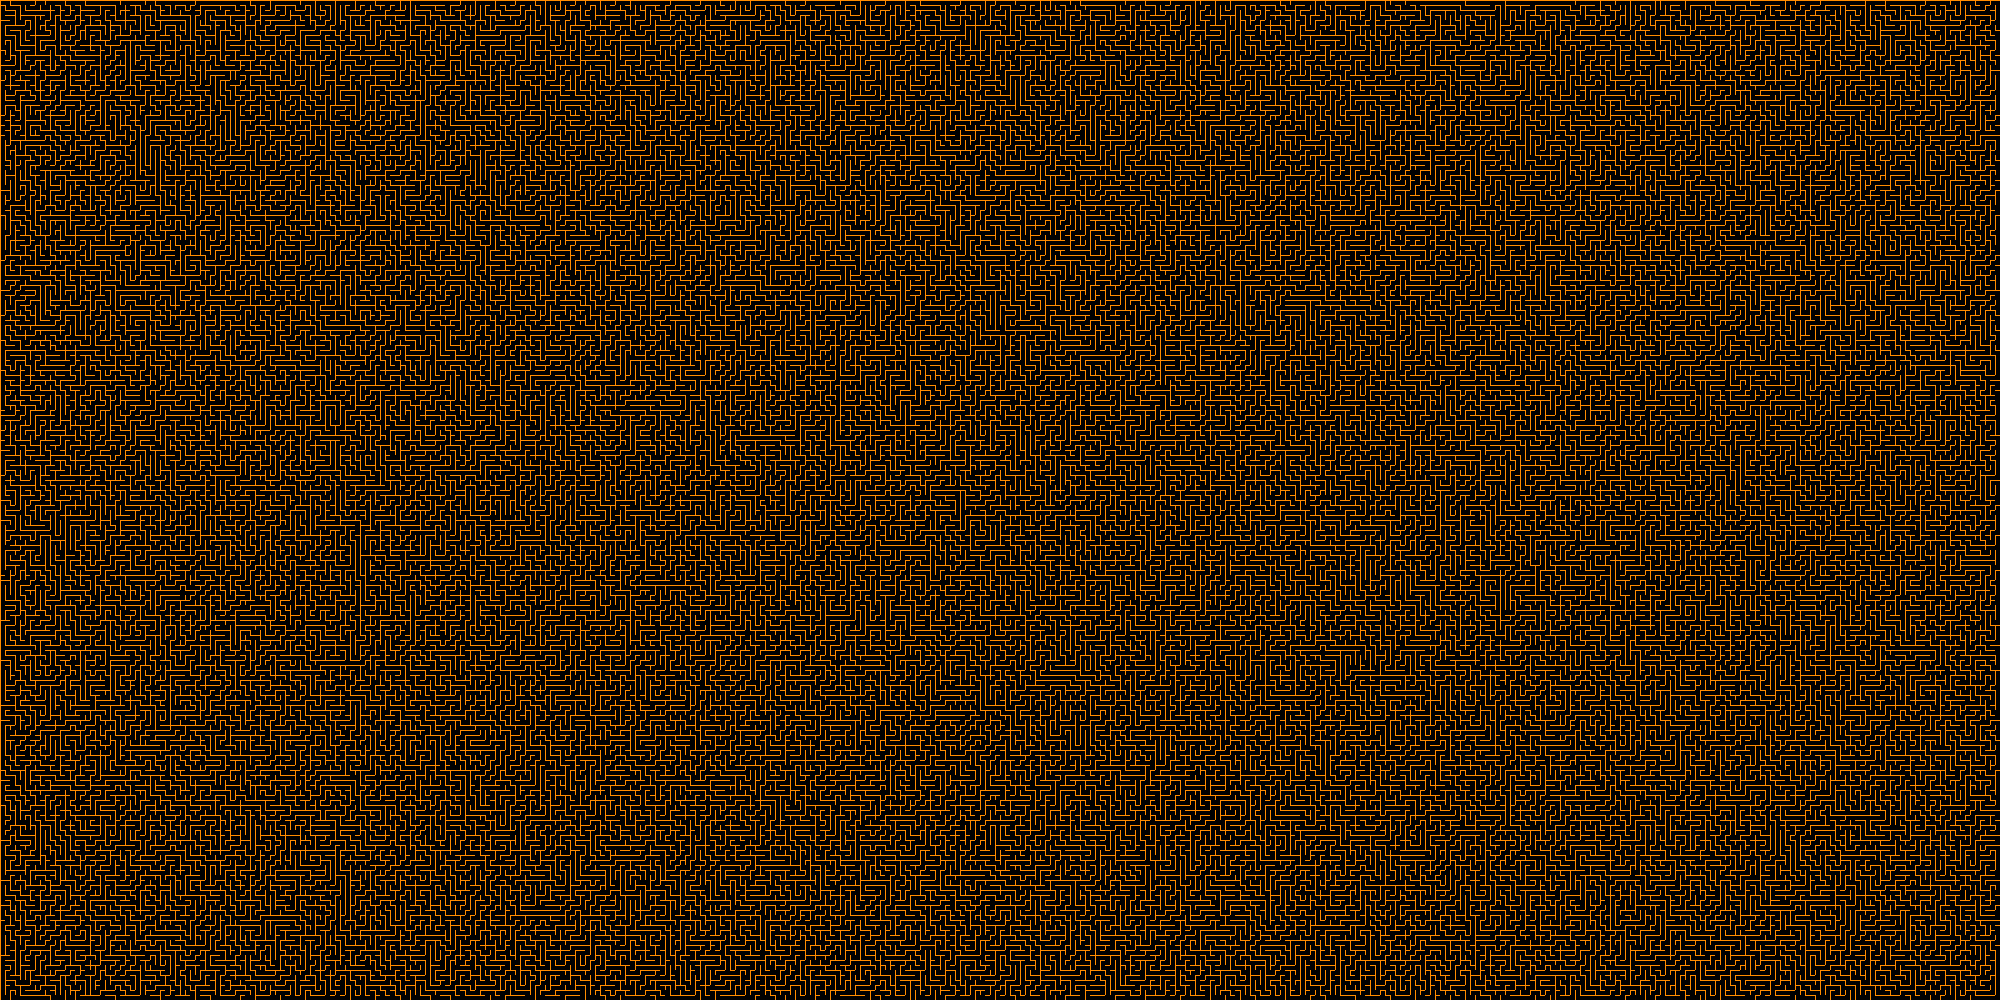
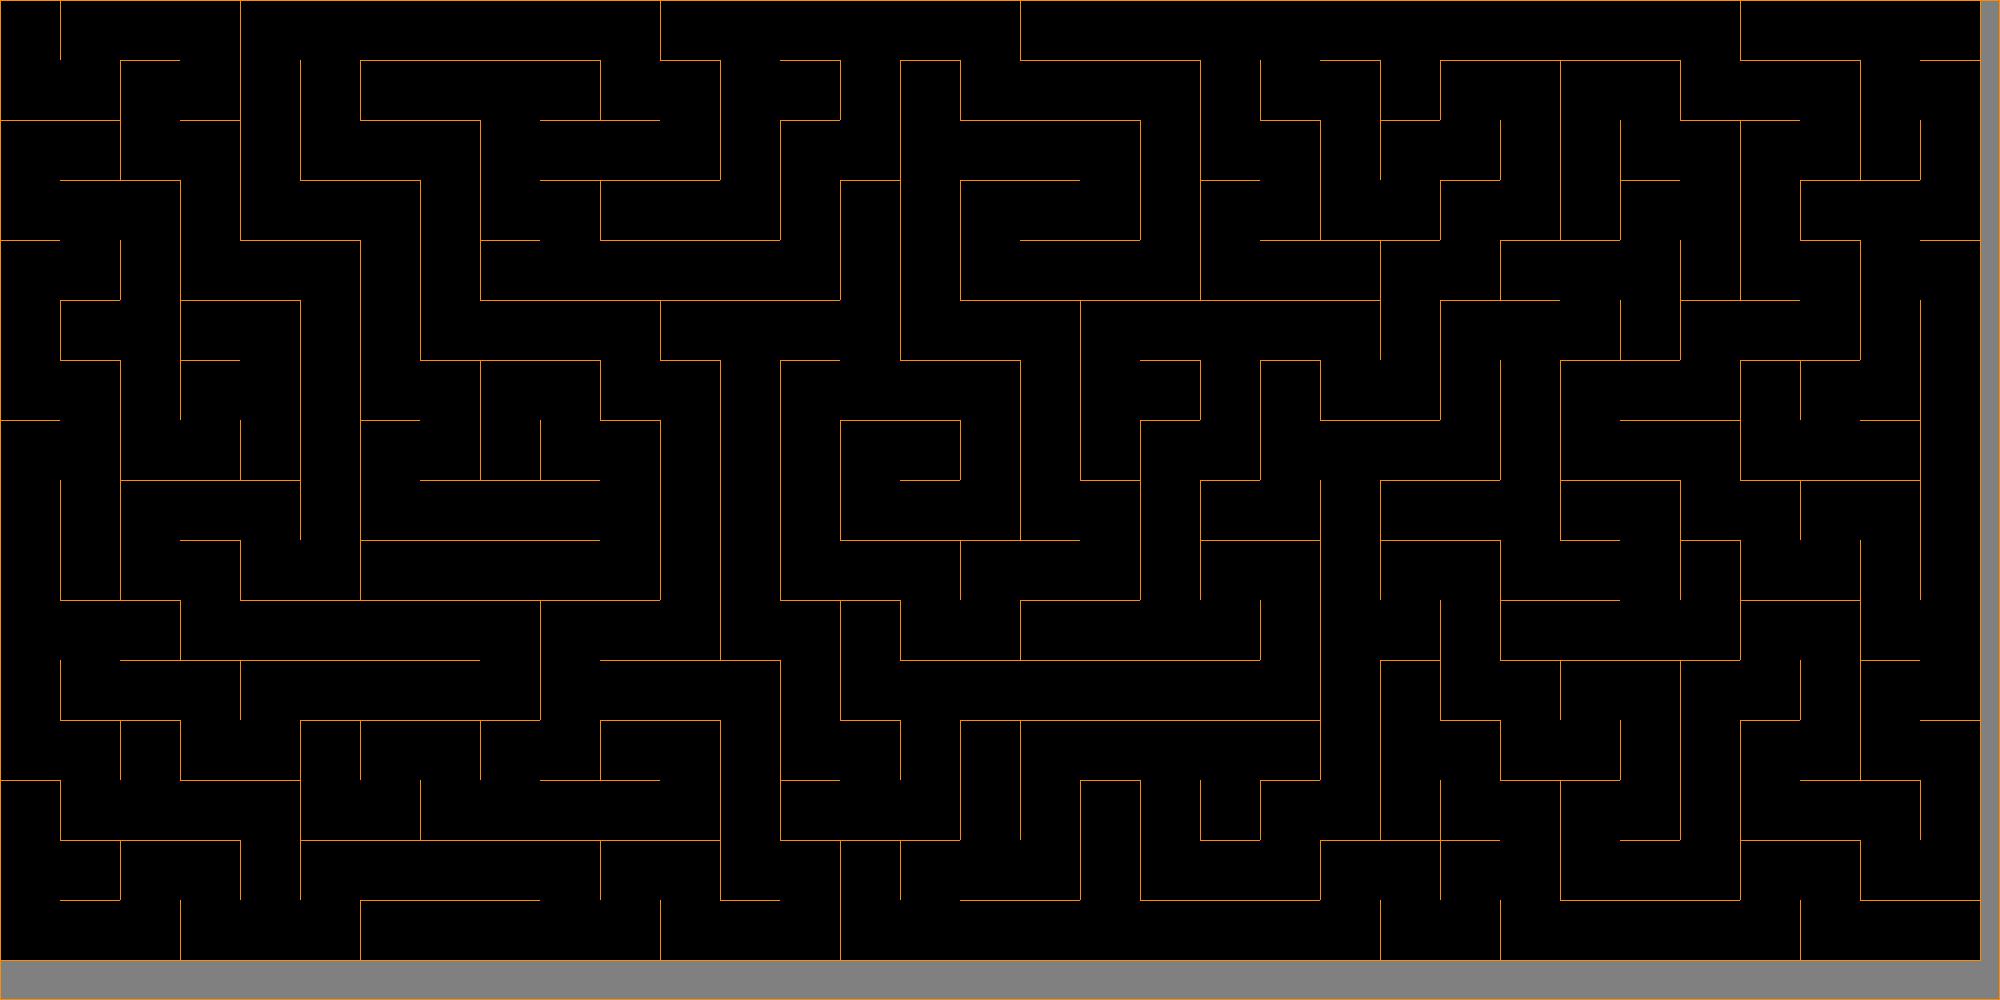
Experimental Solution Generation algorithm added

Changed region(s): [[0.0, 0.0, 1.0, 1.0]]

diff --git a/Solution_DFS_CPU.py b/Solution_DFS_CPU.py
@@ -1,0 +1,169 @@
+import os
+from random import choice
+import datetime
+from PIL import Image, ImageDraw
+
+# Constants
+WIDTH, HEIGHT = 2000, 1000
+TILE = 60
+cols, rows = WIDTH // TILE, HEIGHT // TILE
+
+def check_cells(x, y):
+    find_index = x + y * cols
+    if x < 0 or x > cols - 1 or y < 0 or y > rows - 1:
+        return False
+    return grid_cells[find_index]
+
+class Cell:
+    def __init__(self, x, y):
+        self.x = x
+        self.y = y
+        self.walls = {'top': True, "bottom": True, "left": True, "right": True}
+        self.visited = False
+        self.__neighbors__ = []
+
+    def draw(self, draw, highlight=False):
+        x, y = self.x * TILE, self.y * TILE
+        if self.visited:
+            draw.rectangle([x, y, x + TILE, y + TILE], fill="black")
+
+        # Draw the top, left, bottom, and right walls if present
+        if self.walls["top"]:
+            draw.line([x, y, x + TILE, y], fill="darkorange", width=1)
+        if self.walls["left"]:
+            draw.line([x, y, x, y + TILE], fill="darkorange", width=1)
+        if self.walls["bottom"] or self.y == rows - 1:
+            draw.line([x, y + TILE, x + TILE, y + TILE], fill="darkorange", width=1)
+        if self.walls["right"] or self.x == cols - 1:
+            draw.line([x + TILE, y, x + TILE, y + TILE], fill="darkorange", width=1)
+
+        if highlight:
+            draw.rectangle([x + 2, y + 2, x + TILE - 2, y + TILE - 2], fill="red")
+
+    def check_neighbors(self):
+        self.__neighbors__ = []
+        top = check_cells(self.x, self.y - 1)
+        right = check_cells(self.x + 1, self.y)
+        bottom = check_cells(self.x, self.y + 1)
+        left = check_cells(self.x - 1, self.y)
+        if top and not top.visited:
+            self.__neighbors__.append(top)
+        if right and not right.visited:
+            self.__neighbors__.append(right)
+        if bottom and not bottom.visited:
+            self.__neighbors__.append(bottom)
+        if left and not left.visited:
+            self.__neighbors__.append(left)
+        return choice(self.__neighbors__) if self.__neighbors__ else False
+
+
+def remove_walls(current, next):
+    dx = current.x - next.x
+    if dx == 1:
+        current.walls['left'] = False
+        next.walls['right'] = False
+    elif dx == -1:
+        current.walls['right'] = False
+        next.walls['left'] = False
+    dy = current.y - next.y
+    if dy == 1:
+        current.walls['top'] = False
+        next.walls['bottom'] = False
+    elif dy == -1:
+        current.walls['bottom'] = False
+        next.walls['top'] = False
+
+# Save a frame for the current maze state
+def save_maze_frame(grid_cells, filename):
+    img = Image.new("RGB", (WIDTH, HEIGHT), "grey")
+    draw = ImageDraw.Draw(img)
+    for cell in grid_cells:
+        cell.draw(draw)
+    img.save(filename)
+
+# Generate the maze with frames
+def generate_maze_with_frames():
+    global grid_cells, stack, current_cell, running, initial
+    grid_cells = [Cell(col, row) for row in range(rows) for col in range(cols)]
+    current_cell = grid_cells[0]
+    stack = []
+    running = True
+    initial = datetime.datetime.now()
+
+    frame_counter = 0
+    os.makedirs("frames", exist_ok=True)
+
+    while running:
+        current_cell.visited = True
+        next_cell = current_cell.check_neighbors()
+        if next_cell:
+            next_cell.visited = True
+            stack.append(current_cell)
+            remove_walls(current_cell, next_cell)
+            current_cell = next_cell
+        elif stack:
+            current_cell = stack.pop()
+        elif len(stack) == 0:
+            running = False
+
+        frame_counter += 1
+        if frame_counter % 10 == 0:  # Save every 10th frame
+            save_maze_frame(grid_cells, f"frames/frame_{frame_counter:05d}.png")
+
+# Solve the maze with frames
+def solve_maze_with_frames():
+    visited = set()
+    path = []
+    os.makedirs("solution_frames", exist_ok=True)
+
+    def dfs(x, y):
+        if (x, y) in visited or x < 0 or y < 0 or x >= cols or y >= rows:
+            return False
+        index = x + y * cols
+        current = grid_cells[index]
+        visited.add((x, y))
+        path.append((x, y))
+
+        # Save a frame with the current path
+        save_solution_frame(path, f"solution_frames/sol_frame_{len(path):05d}.png")
+
+        # Check if reached the bottom-right cell
+        if x == cols - 1 and y == rows - 1:
+            return True
+
+        # Try moving in each possible direction
+        neighbors = [
+            (x, y - 1, "top", "bottom"),
+            (x + 1, y, "right", "left"),
+            (x, y + 1, "bottom", "top"),
+            (x - 1, y, "left", "right"),
+        ]
+        for nx, ny, wall_from, wall_to in neighbors:
+            if (nx, ny) not in visited:
+                neighbor_index = nx + ny * cols
+                if 0 <= nx < cols and 0 <= ny < rows and not grid_cells[index].walls[wall_from]:
+                    if dfs(nx, ny):
+                        return True
+
+        path.pop()  # Backtrack
+        return False
+
+    dfs(0, 0)
+
+# Save a frame with the solution path
+def save_solution_frame(path, filename):
+    img = Image.new("RGB", (WIDTH, HEIGHT), "grey")
+    draw = ImageDraw.Draw(img)
+
+    for cell in grid_cells:
+        cell.draw(draw)
+
+    for (x, y) in path:
+        cx, cy = x * TILE, y * TILE
+        draw.rectangle([cx + 2, cy + 2, cx + TILE - 2, cy + TILE - 2], fill="blue")
+
+    img.save(filename)
+
+if __name__ == "__main__":
+    generate_maze_with_frames()  # Generate maze
+    solve_maze_with_frames()     # Solve maze

diff --git a/maze_generation_prims_GPU.py b/maze_generation_prims_GPU.py
@@ -1,0 +1,86 @@
+import random
+import numpy as np
+from numba import cuda, types
+
+# Initialize the grid dimensions
+rows, cols = 20, 20  # Adjust as needed
+
+
+# Numba CUDA kernel to generate the maze using Prim's Algorithm
+@cuda.jit
+def generate_maze_kernel(visited, walls, directions, rows, cols):
+    # Thread indices
+    tx, ty = cuda.grid(2)
+
+    # List of unvisited neighbors (we will store the neighbors in a fixed-size array)
+    neighbors_x = cuda.local.array(4, dtype=numba.int32)  # Array size 4, 4 possible directions
+    neighbors_y = cuda.local.array(4, dtype=numba.int32)
+
+    # Initialize the neighbor count
+    num_neighbors = 0
+
+    # Check bounds and if the current cell is unvisited
+    if 0 <= tx < rows and 0 <= ty < cols and not visited[tx, ty]:
+        # Randomly add neighbors
+        if tx - 1 >= 0 and not visited[tx - 1, ty]:
+            neighbors_x[num_neighbors] = tx - 1
+            neighbors_y[num_neighbors] = ty
+            num_neighbors += 1
+        if tx + 1 < rows and not visited[tx + 1, ty]:
+            neighbors_x[num_neighbors] = tx + 1
+            neighbors_y[num_neighbors] = ty
+            num_neighbors += 1
+        if ty - 1 >= 0 and not visited[tx, ty - 1]:
+            neighbors_x[num_neighbors] = tx
+            neighbors_y[num_neighbors] = ty - 1
+            num_neighbors += 1
+        if ty + 1 < cols and not visited[tx, ty + 1]:
+            neighbors_x[num_neighbors] = tx
+            neighbors_y[num_neighbors] = ty + 1
+            num_neighbors += 1
+
+        # Pick a random neighbor and mark it as visited
+        if num_neighbors > 0:
+            idx = random.randint(0, num_neighbors - 1)
+            nx, ny = neighbors_x[idx], neighbors_y[idx]
+            visited[nx, ny] = True
+            # Encode (nx, ny) as a single integer to store in walls
+            walls[tx, ty] = nx * cols + ny  # Encoding pair (nx, ny) into a single integer
+
+
+# Host function to set up and run the kernel
+def generate_maze(rows, cols):
+    visited = np.zeros((rows, cols), dtype=np.bool_)
+
+    # Store walls as a single integer representing (nx, ny) encoded as nx * cols + ny
+    walls = np.zeros((rows, cols), dtype=np.int32)  # Use a fixed-size type (int32)
+
+    directions = np.array([(-1, 0), (1, 0), (0, -1), (0, 1)])  # Directions: up, down, left, right
+
+    # Copy arrays to device memory
+    visited_device = cuda.to_device(visited)
+    walls_device = cuda.to_device(walls)
+    directions_device = cuda.to_device(directions)
+
+    # Set up grid and block sizes for the kernel
+    threads_per_block = (16, 16)
+    blocks_per_grid = (int(np.ceil(rows / threads_per_block[0])), int(np.ceil(cols / threads_per_block[1])))
+
+    # Launch kernel
+    generate_maze_kernel[blocks_per_grid, threads_per_block](visited_device, walls_device, directions_device, rows,
+                                                             cols)
+
+    # Copy results back to host
+    visited = visited_device.copy_to_host()
+    walls = walls_device.copy_to_host()
+
+    return visited, walls
+
+
+# Main function to run the maze generation
+if __name__ == "__main__":
+    visited_final, walls_final = generate_maze(rows, cols)
+
+    print("Maze Generated with GPU (Prims Algorithm):")
+    print(visited_final)
+    print(walls_final)

diff --git a/DFS_CPU.py b/DFS_CPU.py
@@ -4,7 +4,7 @@ from PIL import Image, ImageDraw
 
 # Constants
 WIDTH, HEIGHT = 2000, 1000
-TILE = 5
+TILE = 60
 cols, rows = WIDTH // TILE, HEIGHT // TILE
 
 def check_cells(x, y):
@@ -30,13 +30,14 @@ class Cell:
         if self.visited:
             draw.rectangle([x, y, x + TILE, y + TILE], fill="black")
 
+        # Draw the top, left, bottom, and right walls if present
         if self.walls["top"]:
             draw.line([x, y, x + TILE, y], fill="darkorange", width=1)
-        if self.walls["bottom"]:
-            draw.line([x + TILE, y + TILE, x, y + TILE], fill="darkorange", width=1)
         if self.walls["left"]:
-            draw.line([x, y + TILE, x, y], fill="darkorange", width=1)
-        if self.walls["right"]:
+            draw.line([x, y, x, y + TILE], fill="darkorange", width=1)
+        if self.walls["bottom"] or self.y == rows - 1:  # Last row
+            draw.line([x, y + TILE, x + TILE, y + TILE], fill="darkorange", width=1)
+        if self.walls["right"] or self.x == cols - 1:  # Last column
             draw.line([x + TILE, y, x + TILE, y + TILE], fill="darkorange", width=1)
 
     def check_neighbors(self):
@@ -104,14 +105,17 @@ def generate_maze():
 
 # Function to generate an image from the maze
 def maze_to_image():
-    # Create a blank image with white background
+    # Create a blank image with a grey background
     img = Image.new("RGB", (WIDTH, HEIGHT), "grey")
     draw = ImageDraw.Draw(img)
 
-    # Draw the cells and walls
+    # Draw the cells and their walls
     for cell in grid_cells:
         cell.draw_head_cell(draw)
         cell.draw(draw)
+
+    # Explicitly draw the border (frame) around the entire maze
+    draw.rectangle([0, 0, WIDTH - 1, HEIGHT - 1], outline="darkorange", width=1)
 
     # Save the final maze image
     img.save('generated_maze_CPU.png')

diff --git a/DFS_GPU.py b/DFS_GPU.py
@@ -5,8 +5,8 @@ import datetime
 from PIL import Image
 
 # Constants
-RES = WIDTH, HEIGHT = 2000, 1000
-TILE = 5
+RES = WIDTH, HEIGHT = 1000, 1000
+TILE = 100
 cols, rows = WIDTH // TILE, HEIGHT // TILE
 
 # Colors
@@ -93,6 +93,12 @@ def maze_to_image():
             # Mark visited cells with black inside the cell
             if visited[y, x]:
                 maze_image[y * TILE + 1:(y + 1) * TILE - 1, x * TILE + 1:(x + 1) * TILE - 1] = BLACK  # black for visited cells
+
+    # Explicitly draw the frame (outermost border)
+    maze_image[0, :] = DARK_ORANGE  # Top border
+    maze_image[-1, :] = DARK_ORANGE  # Bottom border
+    maze_image[:, 0] = DARK_ORANGE  # Left border
+    maze_image[:, -1] = DARK_ORANGE  # Right border
 
     # Save the maze image
     img = Image.fromarray(maze_image)
